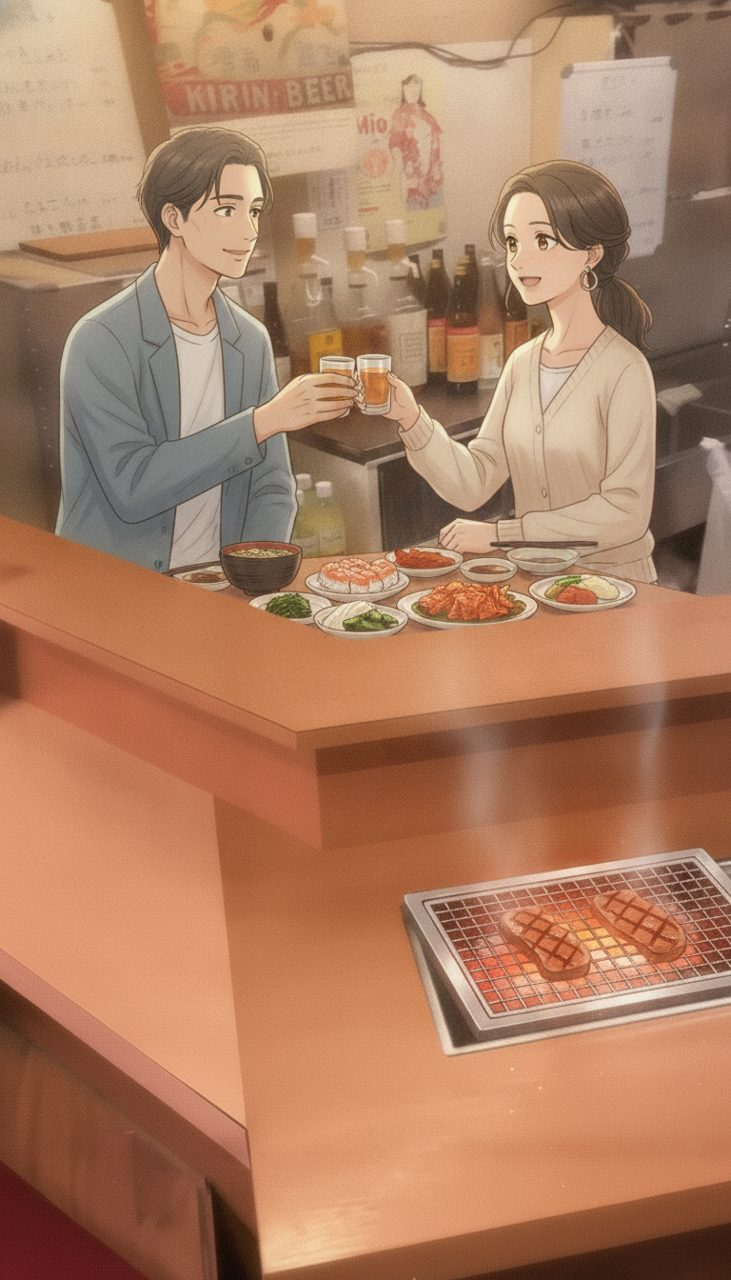
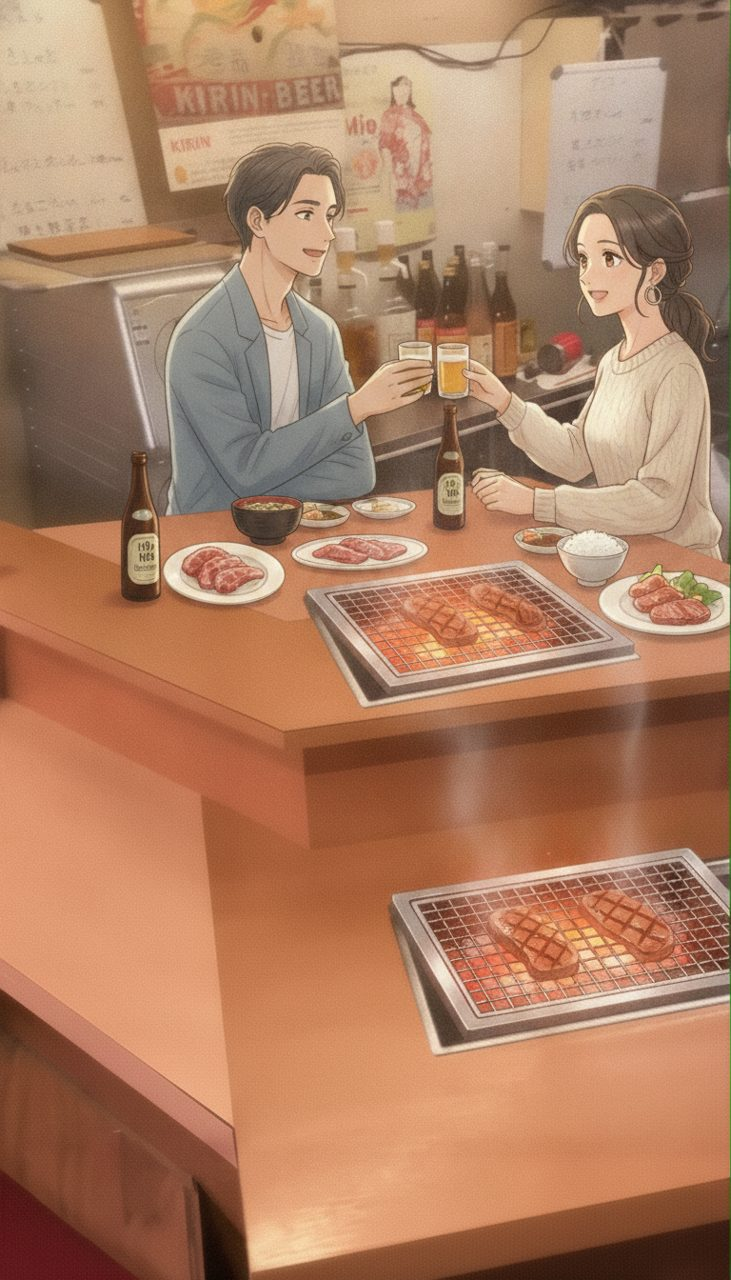
炭火焼肉たなか屋: サブを30代夫婦に変更（S09再生成）

diff --git a/tanakaya-storyboard.html b/tanakaya-storyboard.html
@@ -63,7 +63,7 @@
     <span>業態：<b>昭和レトロ・下町の大衆炭火焼肉店</b>（福井県越前市）</span>
     <span>尺：<b>約42秒</b>（13シーン）</span>
     <span>画風：<b>新海誠／ジブリ風の温かいアニメ</b></span>
-    <span>主役：<b>仕事終わりの50代サラリーマン</b>＋40代カップル</span>
+    <span>主役：<b>仕事終わりの50代サラリーマン</b>＋30代夫婦</span>
     <span>CTA：<b>電話 ＋ Instagram ＋ 住所</b></span>
   </div>
   <div class="pending"><b>✅ v2の変更点</b>：①いただいた<b>店舗の実物（看板・カウンター・角型炭火ロースター＋焼き網・KIRIN生／サントリー角・手切り）に寄せて</b>作り直し ②冒頭を<b>炭を熾す→焼く→寄って食べる</b>の3カットに（参考アニメの炭火の儀式入り）③<b>炭入れ・タレにくぐらせる</b>工程を追加（全13カット・約42秒）。<br><b>⚠ 仮置き</b>：尺42秒／ナレ＝落ち着いた男性／BGM＝夜の大人向け。違うご希望があればお知らせください。</div>
@@ -118,7 +118,7 @@
 
   <div class="card meat"><div class="ph"><span class="lbl">S9</span><img src="tanakaya-images/S08_tare_bite.jpg" alt="S9"></div><div class="body"><span class="scene">S9 タレ＋至福の一口</span><span class="time">0:24–0:28</span><div class="telop">この一口のために。</div><div class="nare">N：「タレにくぐらせ、ひとくち。」</div><div class="desc">焼けた肉をタレにくぐらせ→主役が目を閉じて至福の実食（冒頭の予告を回収）</div><div class="motion">▶ 噛みしめ目を閉じる／湯気</div></div></div>
 
-  <div class="card warm"><div class="ph"><span class="lbl">S10</span><img src="tanakaya-images/S09_couple.jpg" alt="S10"></div><div class="body"><span class="scene">S10 サブ：40代カップル</span><span class="time">0:28–0:31</span><div class="telop">ひとりでも、ふたりでも。</div><div class="nare">N：「ひとりでも、大切な人とでも。」</div><div class="desc">カウンターで40代カップルが炭火越しに乾杯</div><div class="motion">▶ グラス軽く触れる</div></div></div>
+  <div class="card warm"><div class="ph"><span class="lbl">S10</span><img src="tanakaya-images/S09_couple.jpg" alt="S10"></div><div class="body"><span class="scene">S10 サブ：30代夫婦</span><span class="time">0:28–0:31</span><div class="telop">ひとりでも、ふたりでも。</div><div class="nare">N：「ひとりでも、大切な人とでも。」</div><div class="desc">カウンターで30代の夫婦が炭火越しに乾杯</div><div class="motion">▶ グラス軽く触れる</div></div></div>
 
   <div class="card meat"><div class="ph"><span class="lbl">S11</span><img src="tanakaya-images/S10_food_hero.jpg" alt="S11"></div><div class="body"><span class="scene">S11 焼き上がり（締め）</span><span class="time">0:31–0:35</span><div class="telop">炭火焼肉 たなか屋</div><div class="nare">N：「炭火が育てる、しあわせな夜。」</div><div class="desc">焼き網の上の照り・湯気・網目の焼き目の効いた焼肉のヒーローショット</div><div class="motion">▶ 湯気ゆっくり立つ</div></div></div>
 
